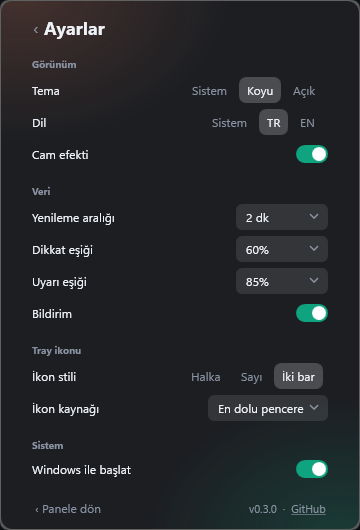
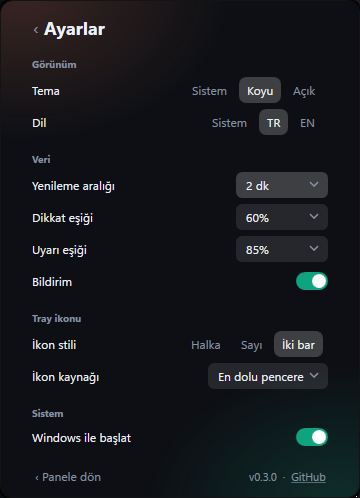
feat(app): drop the glass effect; native rounded corners stay
The system backdrop worked on Windows 11 but the on-screen difference was not
worth a setting, and the composition-attribute route did nothing on build
26200. Setting, file key, strings and settings row removed; 217 tests.

Claude-Session: https://claude.ai/code/session_01YKVj24dxU1gJre47bzHckD

diff --git a/src/LimitTray.App/Views/SettingsPage.xaml b/src/LimitTray.App/Views/SettingsPage.xaml
@@ -248,13 +248,6 @@
                          Style="{StaticResource SegmentStyle}" SelectedValuePath="Value"
                          SelectedValue="{Binding Language, Mode=TwoWay, UpdateSourceTrigger=PropertyChanged}" />
             </Grid>
-            <Grid Style="{StaticResource SettingRowStyle}"
-                  Visibility="{Binding GlassEffectVisible, Converter={StaticResource BooleanVisibility}}">
-                <Grid.ColumnDefinitions><ColumnDefinition Width="*" /><ColumnDefinition Width="Auto" /></Grid.ColumnDefinitions>
-                <TextBlock Text="{Binding GlassEffectText}" Style="{StaticResource SettingLabelStyle}" />
-                <CheckBox Grid.Column="1" Style="{StaticResource ToggleStyle}"
-                          IsChecked="{Binding GlassEffect, Mode=TwoWay, UpdateSourceTrigger=PropertyChanged}" />
-            </Grid>
         </StackPanel>
 
         <TextBlock Grid.Row="4" Text="{Binding DataGroupText}" Style="{StaticResource GroupHeaderStyle}" />

diff --git a/src/LimitTray.App/QuotaPopup.xaml b/src/LimitTray.App/QuotaPopup.xaml
@@ -9,8 +9,8 @@
     <!--
         No WindowChrome: with GlassFrameThickness it drew a light DWM frame and squared the
         corners. Rounding and the missing border line come from DWM attributes set in
-        WindowBackdrop, and the glass itself from the composition attribute, so this tree
-        only has to paint the surface and the two brand glows the mockup had.
+        WindowBackdrop, so this tree only has to paint the surface and the two brand glows
+        the mockup had.
     -->
     <Border x:Name="RootBorder" Background="{DynamicResource SurfaceBrush}"
             BorderBrush="{DynamicResource CardBorderBrush}"

diff --git a/src/LimitTray.App/WindowBackdrop.cs b/src/LimitTray.App/WindowBackdrop.cs
@@ -6,48 +6,21 @@ using System.Windows.Interop;
 namespace LimitTray.App;
 
 /// <summary>
-/// Acrylic behind a frameless WPF window, plus the two DWM attributes that make such a
-/// window look native on Windows 11: rounded corners and no border line.
+/// The two DWM attributes that make a frameless WPF window look native on Windows 11:
+/// rounded corners and no border line. Windows 10 ignores both harmlessly, and every
+/// failure is silent because this is decoration and never worth an error.
 ///
-/// On Windows 11 22H2+ the documented system backdrop is used, with the frame extended
-/// into the client area and its side effects (light border, square corners) turned off
-/// through DWM attributes. Windows 10 falls back to the older composition attribute.
-/// Every failure is silent: the effect is decoration and never worth an error.
+/// An acrylic backdrop was tried here during v0.3 (both the composition attribute and
+/// the Windows 11 system backdrop). The first did nothing on build 26200; the second
+/// worked but the difference was not worth a setting. Both were removed.
 /// </summary>
 public static class WindowBackdrop
 {
-    private const int WcaAccentPolicy = 19;
-    private const int AccentDisabled = 0;
-    private const int AccentEnableAcrylicBlurBehind = 4;
-
     private const int DwmwaUseImmersiveDarkMode = 20;
-    private const int DwmwaSystemBackdropType = 38;
-    private const int BackdropNone = 1;
-    private const int BackdropTransient = 3; // acrylic
     private const int DwmwaWindowCornerPreference = 33;
     private const int DwmwaBorderColor = 34;
     private const int DwmwcpRound = 2;
     private const uint DwmwaColorNone = 0xFFFFFFFE;
-
-    [StructLayout(LayoutKind.Sequential)]
-    private struct AccentPolicy
-    {
-        public int AccentState;
-        public int AccentFlags;
-        public uint GradientColor; // AABBGGRR
-        public int AnimationId;
-    }
-
-    [StructLayout(LayoutKind.Sequential)]
-    private struct WindowCompositionAttributeData
-    {
-        public int Attribute;
-        public IntPtr Data;
-        public int SizeOfData;
-    }
-
-    [DllImport("user32.dll")]
-    private static extern int SetWindowCompositionAttribute(IntPtr hwnd, ref WindowCompositionAttributeData data);
 
     [DllImport("dwmapi.dll")]
     private static extern int DwmSetWindowAttribute(IntPtr hwnd, int attribute, ref int value, int size);
@@ -55,21 +28,9 @@ public static class WindowBackdrop
     [DllImport("dwmapi.dll")]
     private static extern int DwmSetWindowAttribute(IntPtr hwnd, int attribute, ref uint value, int size);
 
-    [StructLayout(LayoutKind.Sequential)]
-    private struct Margins { public int Left, Right, Top, Bottom; }
-
-    [DllImport("dwmapi.dll")]
-    private static extern int DwmExtendFrameIntoClientArea(IntPtr hwnd, ref Margins margins);
-
-    /// <summary>Windows 11 22H2 introduced the system backdrop attribute.</summary>
-    public static bool HasSystemBackdrop => Environment.OSVersion.Version.Build >= 22621;
-
-    public static bool IsWindows11 => Environment.OSVersion.Version.Build >= 22000;
-
-    /// <summary>Rounded corners and no DWM border line. Windows 10 ignores both harmlessly.</summary>
     public static void ApplyNativeShape(Window window, bool dark)
     {
-        var hwnd = Handle(window);
+        var hwnd = new WindowInteropHelper(window).Handle;
         if (hwnd == IntPtr.Zero) return;
 
         try
@@ -86,91 +47,4 @@ public static class WindowBackdrop
             // Older DWM: the window simply keeps square corners.
         }
     }
-
-    /// <summary>
-    /// Blurs whatever is behind the window and tints it. The tint alpha is kept low
-    /// because the real surface colour comes from the window's own semi-transparent
-    /// background on top; the accent only has to keep the blur from going black.
-    /// </summary>
-    public static bool TryApplyAcrylic(Window window, System.Windows.Media.Color tint)
-    {
-        var hwnd = Handle(window);
-        if (hwnd == IntPtr.Zero) return false;
-
-        try
-        {
-            var source = HwndSource.FromHwnd(hwnd);
-            if (source is null) return false;
-            source.CompositionTarget.BackgroundColor = System.Windows.Media.Colors.Transparent;
-
-            // Windows 11 22H2+: the documented backdrop. It needs the DWM frame extended
-            // over the whole client area so the backdrop has somewhere to draw; the light
-            // border line and square corners that come with that are switched off in
-            // ApplyNativeShape. Measured 2026-09-20: the composition-attribute route below
-            // no longer blurs on build 26200, so it is only the fallback for Windows 10.
-            if (HasSystemBackdrop)
-            {
-                var margins = new Margins { Left = -1, Right = -1, Top = -1, Bottom = -1 };
-                if (DwmExtendFrameIntoClientArea(hwnd, ref margins) != 0) return false;
-                var backdrop = BackdropTransient;
-                return DwmSetWindowAttribute(hwnd, DwmwaSystemBackdropType, ref backdrop, sizeof(int)) == 0;
-            }
-
-            var accent = new AccentPolicy
-            {
-                AccentState = AccentEnableAcrylicBlurBehind,
-                AccentFlags = 2,
-                GradientColor = (uint)(0x40 << 24) | (uint)(tint.B << 16) | (uint)(tint.G << 8) | tint.R,
-            };
-            return SetAccent(hwnd, accent);
-        }
-        catch (Exception)
-        {
-            return false;
-        }
-    }
-
-    public static void Clear(Window window)
-    {
-        var hwnd = Handle(window);
-        if (hwnd == IntPtr.Zero) return;
-        try
-        {
-            if (HasSystemBackdrop)
-            {
-                var none = BackdropNone;
-                DwmSetWindowAttribute(hwnd, DwmwaSystemBackdropType, ref none, sizeof(int));
-                var margins = new Margins();
-                DwmExtendFrameIntoClientArea(hwnd, ref margins);
-            }
-            SetAccent(hwnd, new AccentPolicy { AccentState = AccentDisabled });
-        }
-        catch (Exception)
-        {
-            // Nothing to undo if it never applied.
-        }
-    }
-
-    private static bool SetAccent(IntPtr hwnd, AccentPolicy accent)
-    {
-        var size = Marshal.SizeOf<AccentPolicy>();
-        var pointer = Marshal.AllocHGlobal(size);
-        try
-        {
-            Marshal.StructureToPtr(accent, pointer, false);
-            var data = new WindowCompositionAttributeData
-            {
-                Attribute = WcaAccentPolicy,
-                Data = pointer,
-                SizeOfData = size,
-            };
-            return SetWindowCompositionAttribute(hwnd, ref data) != 0;
-        }
-        finally
-        {
-            Marshal.FreeHGlobal(pointer);
-        }
-    }
-
-    private static IntPtr Handle(Window window) => new WindowInteropHelper(window).Handle;
 }

diff --git a/src/LimitTray.App/ViewModels/SettingsViewModel.cs b/src/LimitTray.App/ViewModels/SettingsViewModel.cs
@@ -53,12 +53,6 @@ public sealed class SettingsViewModel : ObservableObject
         set => Apply(_app.Settings with { Language = value });
     }
 
-    public bool GlassEffect
-    {
-        get => _app.Settings.GlassEffect;
-        set => Apply(_app.Settings with { GlassEffect = value });
-    }
-
     public int RefreshSeconds
     {
         get => _app.Settings.RefreshSeconds;
@@ -113,7 +107,6 @@ public sealed class SettingsViewModel : ObservableObject
         }
     }
 
-    public bool GlassEffectVisible => Environment.OSVersion.Version.Build >= 22621;
 
     public string SettingsText => _strings.Settings;
     public string BackText => "\u2039 " + _strings.BackToPanel;
@@ -124,7 +117,6 @@ public sealed class SettingsViewModel : ObservableObject
     public string SystemGroupText => _strings.GroupSystem;
     public string ThemeText => _strings.Theme;
     public string LanguageText => _strings.Language;
-    public string GlassEffectText => _strings.GlassEffect;
     public string RefreshIntervalText => _strings.RefreshInterval;
     public string CautionThresholdText => _strings.CautionThreshold;
     public string WarningThresholdText => _strings.WarningThreshold;
@@ -156,7 +148,6 @@ public sealed class SettingsViewModel : ObservableObject
         RebuildWarningOptions();
         RaisePropertyChanged(nameof(Theme));
         RaisePropertyChanged(nameof(Language));
-        RaisePropertyChanged(nameof(GlassEffect));
         RaisePropertyChanged(nameof(RefreshSeconds));
         RaisePropertyChanged(nameof(CautionThreshold));
         RaisePropertyChanged(nameof(WarningThreshold));
@@ -200,7 +191,6 @@ public sealed class SettingsViewModel : ObservableObject
         RaisePropertyChanged(nameof(SystemGroupText));
         RaisePropertyChanged(nameof(ThemeText));
         RaisePropertyChanged(nameof(LanguageText));
-        RaisePropertyChanged(nameof(GlassEffectText));
         RaisePropertyChanged(nameof(RefreshIntervalText));
         RaisePropertyChanged(nameof(CautionThresholdText));
         RaisePropertyChanged(nameof(WarningThresholdText));

diff --git a/src/LimitTray.Core/Settings/AppSettings.cs b/src/LimitTray.Core/Settings/AppSettings.cs
@@ -22,7 +22,6 @@ public sealed record QuotaThresholds(double Caution, double Warning)
 public sealed record AppSettings(
     ThemeMode Theme,
     LanguageMode Language,
-    bool GlassEffect,
     int RefreshSeconds,
     QuotaThresholds Thresholds,
     bool Notifications,
@@ -33,7 +32,7 @@ public sealed record AppSettings(
     public static readonly int[] AllowedRefreshSeconds = { 60, 120, 300 };
 
     public static readonly AppSettings Default = new(
-        ThemeMode.System, LanguageMode.System, GlassEffect: true, RefreshSeconds: 120,
+        ThemeMode.System, LanguageMode.System, RefreshSeconds: 120,
         QuotaThresholds.Default, Notifications: true, TrayIconStyle.DualBar,
         TrayIconSource.Highest, new HashSet<string>(StringComparer.Ordinal));
 
@@ -48,11 +47,11 @@ public sealed record AppSettings(
     public bool Equals(AppSettings? other) =>
         other is not null
         && Theme == other.Theme && Language == other.Language
-        && GlassEffect == other.GlassEffect && RefreshSeconds == other.RefreshSeconds
+        && RefreshSeconds == other.RefreshSeconds
         && Thresholds == other.Thresholds && Notifications == other.Notifications
         && TrayStyle == other.TrayStyle && TraySource == other.TraySource
         && ExpandedProviders.SetEquals(other.ExpandedProviders);
 
     public override int GetHashCode() => HashCode.Combine(
-        Theme, Language, GlassEffect, RefreshSeconds, Thresholds, Notifications, TrayStyle, TraySource);
+        Theme, Language, RefreshSeconds, Thresholds, Notifications, TrayStyle, TraySource);
 }

diff --git a/src/LimitTray.App/QuotaPopup.xaml.cs b/src/LimitTray.App/QuotaPopup.xaml.cs
@@ -39,27 +39,16 @@ public partial class QuotaPopup : Window
         };
     }
 
+    /// <summary>
+    /// Native rounded corners and no border line, plus the brand glows. The acrylic
+    /// backdrop that lived here in the v0.3 development branch was removed on
+    /// 2026-09-20: it worked only through the Windows 11 system backdrop, and even there
+    /// the difference on screen was not worth a setting.
+    /// </summary>
     public void ApplyBackdrop(bool dark)
     {
         WindowBackdrop.ApplyNativeShape(this, dark);
         PaintGlows(dark);
-
-        if (FindResource("SurfaceBrush") is not SolidColorBrush surface) return;
-
-        var applied = _app.Settings.GlassEffect
-            && WindowBackdrop.TryApplyAcrylic(this, surface.Color);
-        if (!applied)
-        {
-            WindowBackdrop.Clear(this);
-            RootBorder.SetResourceReference(Border.BackgroundProperty, "SurfaceBrush");
-            return;
-        }
-
-        // The blur shows through whatever alpha the surface leaves; 0.78 keeps text
-        // readable over a busy desktop while still reading as glass.
-        var glass = new SolidColorBrush(surface.Color) { Opacity = 0.78 };
-        glass.Freeze();
-        RootBorder.Background = glass;
     }
 
     /// <summary>

diff --git a/src/LimitTray.Core/Presentation/Strings.cs b/src/LimitTray.Core/Presentation/Strings.cs
@@ -65,7 +65,6 @@ public sealed class Strings
         ThemeLight = "Light",
         Language = "Language",
         LanguageSystem = "System",
-        GlassEffect = "Glass effect",
         RefreshInterval = "Refresh interval",
         Seconds = "{0} s",
         Minutes = "{0} min",
@@ -137,7 +136,6 @@ public sealed class Strings
         ThemeLight = "Açık",
         Language = "Dil",
         LanguageSystem = "Sistem",
-        GlassEffect = "Cam efekti",
         RefreshInterval = "Yenileme aralığı",
         Seconds = "{0} sn",
         Minutes = "{0} dk",
@@ -219,7 +217,6 @@ public sealed class Strings
     public required string ThemeLight { get; init; }
     public required string Language { get; init; }
     public required string LanguageSystem { get; init; }
-    public required string GlassEffect { get; init; }
     public required string RefreshInterval { get; init; }
     public required string Seconds { get; init; }
     public required string Minutes { get; init; }

diff --git a/tests/LimitTray.Tests/Settings/SettingsFileTests.cs b/tests/LimitTray.Tests/Settings/SettingsFileTests.cs
@@ -10,7 +10,7 @@ public class SettingsFileTests
     {
         var original = AppSettings.Default with
         {
-            Theme = ThemeMode.Light, Language = LanguageMode.English, GlassEffect = false,
+            Theme = ThemeMode.Light, Language = LanguageMode.English,
             RefreshSeconds = 300, Thresholds = new QuotaThresholds(70, 90), Notifications = false,
             TrayStyle = TrayIconStyle.Number, TraySource = TrayIconSource.CodexWeekly,
             ExpandedProviders = new HashSet<string> { "claude" },
@@ -66,7 +66,7 @@ public class SettingsFileTests
         var keys = doc.RootElement.EnumerateObject().Select(p => p.Name).ToHashSet();
         var allowed = new HashSet<string>
         {
-            "version", "theme", "language", "glassEffect", "refreshSeconds",
+            "version", "theme", "language", "refreshSeconds",
             "cautionPercent", "warningPercent", "notifications", "trayStyle", "traySource",
             "expandedProviders",
         };

diff --git a/src/LimitTray.Core/Settings/SettingsFile.cs b/src/LimitTray.Core/Settings/SettingsFile.cs
@@ -21,7 +21,6 @@ public static class SettingsFile
             w.WriteNumber("version", Version);
             w.WriteString("theme", s.Theme.ToString());
             w.WriteString("language", s.Language.ToString());
-            w.WriteBoolean("glassEffect", s.GlassEffect);
             w.WriteNumber("refreshSeconds", s.RefreshSeconds);
             w.WriteNumber("cautionPercent", s.Thresholds.Caution);
             w.WriteNumber("warningPercent", s.Thresholds.Warning);
@@ -61,7 +60,6 @@ public static class SettingsFile
             return new AppSettings(
                 Enum(root, "theme", d.Theme),
                 Enum(root, "language", d.Language),
-                Bool(root, "glassEffect", d.GlassEffect),
                 Int(root, "refreshSeconds", d.RefreshSeconds),
                 new QuotaThresholds(
                     Double(root, "cautionPercent", d.Thresholds.Caution),

diff --git a/src/LimitTray.App/App.xaml.cs b/src/LimitTray.App/App.xaml.cs
@@ -280,7 +280,7 @@ public partial class App : System.Windows.Application
             if (_trayIcon is not null) _trayIcon.ContextMenuStrip = BuildMenu();
             _popup?.UpdateStrings(_strings);
         }
-        if (previous.Theme != _settings.Theme || previous.GlassEffect != _settings.GlassEffect)
+        if (previous.Theme != _settings.Theme)
             ApplyTheme();
         // The interval delegate reads _settings on the next tick; a shorter interval takes
         // effect immediately by cutting the current wait short.

diff --git a/tests/LimitTray.Tests/Settings/AppSettingsTests.cs b/tests/LimitTray.Tests/Settings/AppSettingsTests.cs
@@ -11,7 +11,6 @@ public class AppSettingsTests
         var s = AppSettings.Default;
         Assert.Equal(ThemeMode.System, s.Theme);
         Assert.Equal(LanguageMode.System, s.Language);
-        Assert.True(s.GlassEffect);
         Assert.Equal(120, s.RefreshSeconds);
         Assert.Equal(60, s.Thresholds.Caution);
         Assert.Equal(85, s.Thresholds.Warning);

diff --git a/README.md b/README.md
@@ -133,7 +133,7 @@ first run.
 
 **Settings.** Everything you can change lives on the second page of the panel and in
 `%LOCALAPPDATA%\limit-tray\settings.json`: theme (system, dark, light), language, the
-glass effect, the refresh interval (60, 120 or 300 seconds), the two colour thresholds,
+refresh interval (60, 120 or 300 seconds), the two colour thresholds,
 notifications, the tray icon style (a ring, a number or two bars, one per provider) and
 which window drives it, and start with Windows. The file holds setting values and nothing
 else; a missing or corrupt file means defaults, and a file that cannot be written is
@@ -228,7 +228,7 @@ task by task. The second round (usage history, burn-rate projection, notificatio
 was written by Claude. The third round, v0.3, was split: Claude wrote the spec and plan,
 Codex wrote the settings model, colour rule, tray icon model and collector changes in
 `LimitTray.Core` and the first cut of the WPF pages, and Claude did the visual work
-(the mockup-matched look, the glass, the settings page polish) and every on-screen check.
+(the mockup-matched look, the settings page polish) and every on-screen check.
 The spec and plan are in [`docs/`](docs/) if you want to see the actual process, including
 the defects that came out of it.
 
